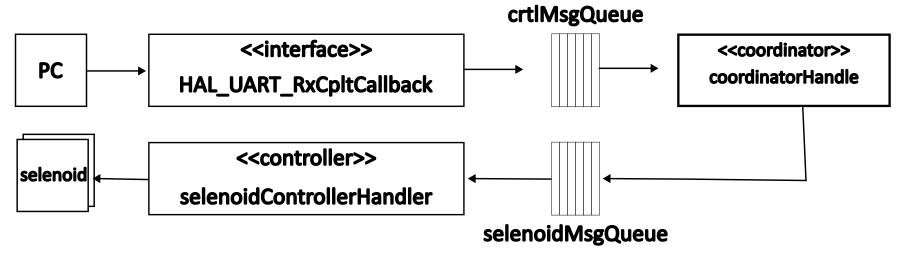
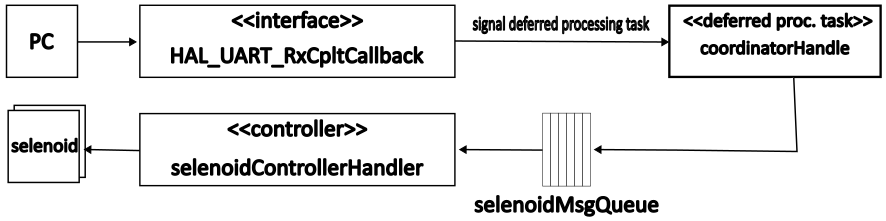
Updated docs

Changed region(s): [[0.0, 0.0, 1.0, 0.9774], [0.1524, 0.0, 0.5181, 0.0271]]

diff --git a/F767ZIT6/4_ResourceManament/RM_UART_Command_Handler/README.md b/F767ZIT6/4_ResourceManament/RM_UART_Command_Handler/README.md
@@ -27,7 +27,7 @@ An example control message is {"id":01,"frequency":30,"duration":01}. The UART r
 ### Processing workflow
 
 ![Trace 1](Img/Monitor.png "Fig 1. Monitor workflow")<br>
-<center>Fig. 1 A collaborative diagram of the monitor pattern.</center> 
+<center>Fig. 1 Collaborative diagram of the monitor pattern.</center> 
 
 ### Comments
 
